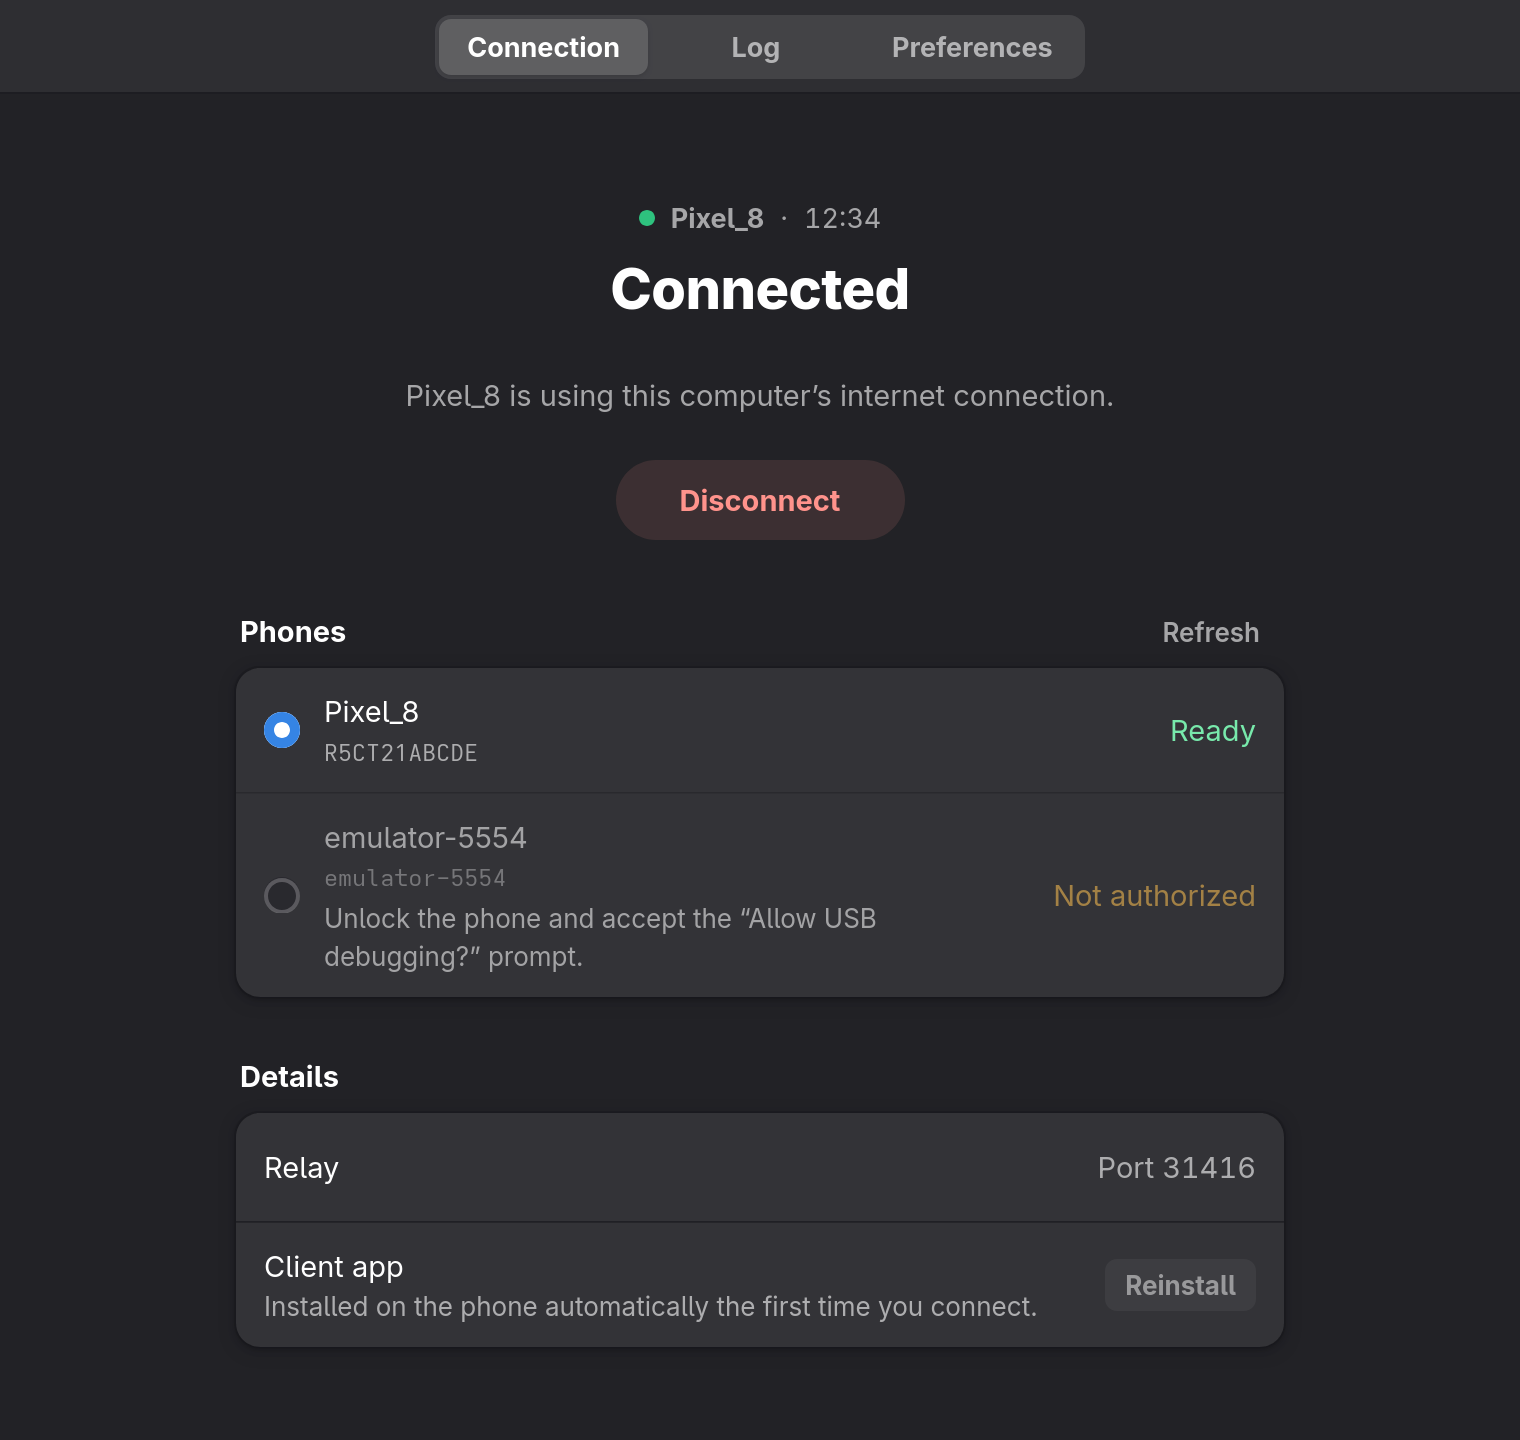
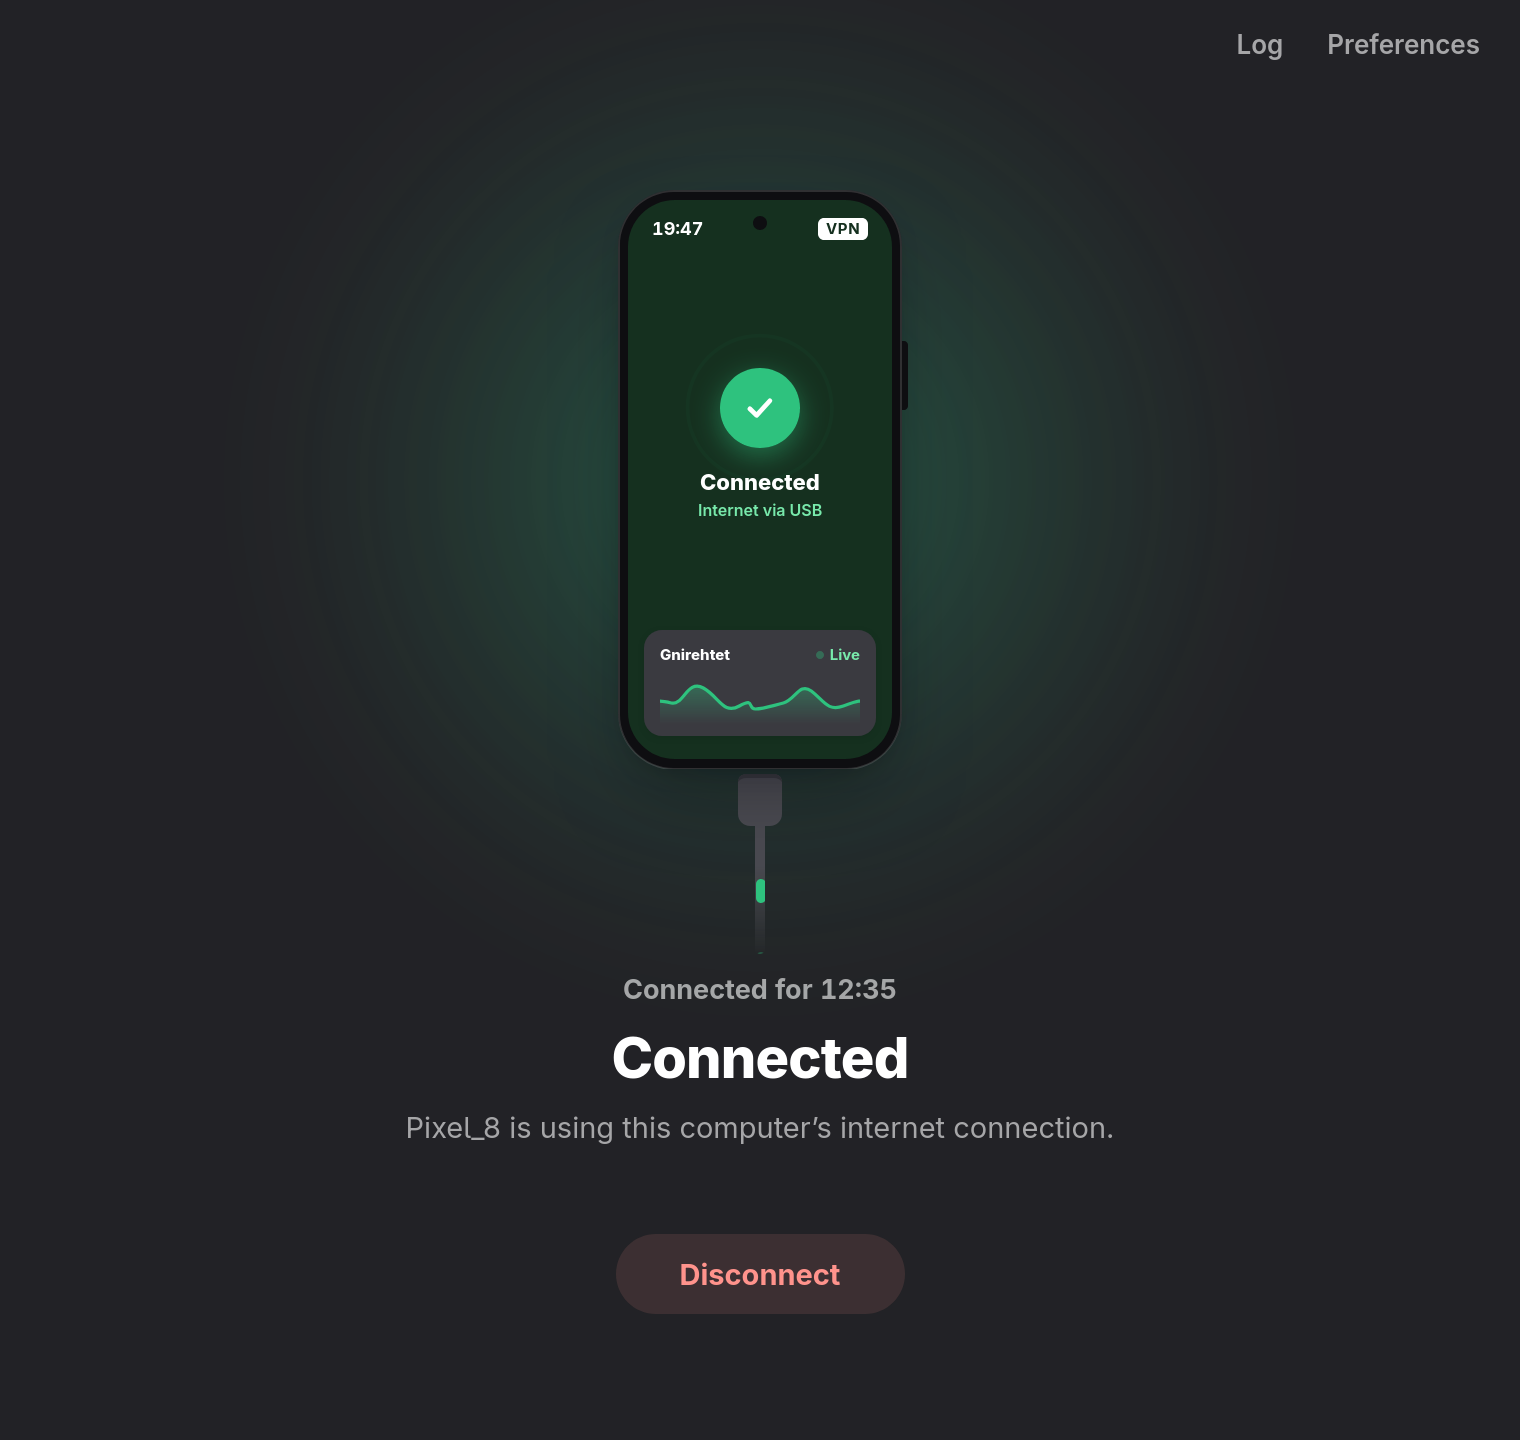
chore: update CHANGELOG with UI enhancements, improve README formatting, and update binary screenshots

diff --git a/CHANGELOG.md b/CHANGELOG.md
@@ -19,10 +19,9 @@ First stable release.
 
 - Redesigned main window: a single connection screen with a phone illustration
   that shows the current state, one primary action at a time, and a phone
-  picker that appears only when more than one phone is plugged in. The log and
-  Preferences open as slide-in panels instead of separate pages.
-- Clearer messages when adb is missing or the phone is unauthorized, with a
-  **Check again** button once adb is installed.
+  picker that appears only when more than one phone is plugged in, replacing
+  the Phones list. The log and Preferences open as slide-in panels instead of
+  separate pages.
 - The adb, relay and APK paths in use are written to the first line of the log
   instead of a Diagnostics section in Preferences.
 - Building from source uses pnpm instead of npm.

diff --git a/README.md b/README.md
@@ -1,7 +1,6 @@
 # Gnirehtet GUI: reverse tethering for Android over USB
 
 [![Latest release](https://img.shields.io/github/v/release/sawongam/gnirehtet-gui)](https://github.com/sawongam/gnirehtet-gui/releases/latest)
-[![CI](https://github.com/sawongam/gnirehtet-gui/actions/workflows/ci.yml/badge.svg)](https://github.com/sawongam/gnirehtet-gui/actions/workflows/ci.yml)
 [![License](https://img.shields.io/github/license/sawongam/gnirehtet-gui)](LICENSE)
 
 Use your computer's internet connection on your Android phone through a USB
